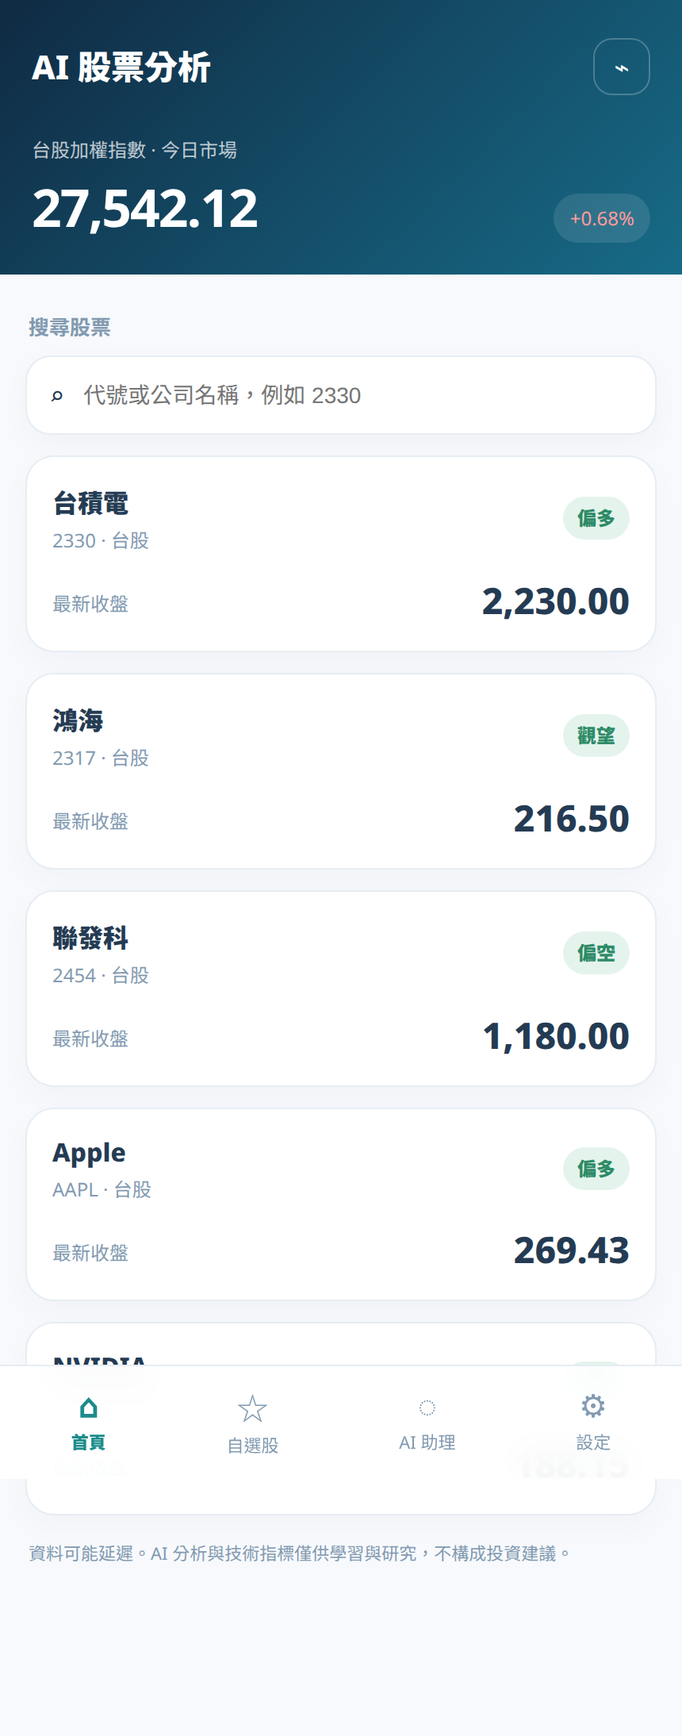
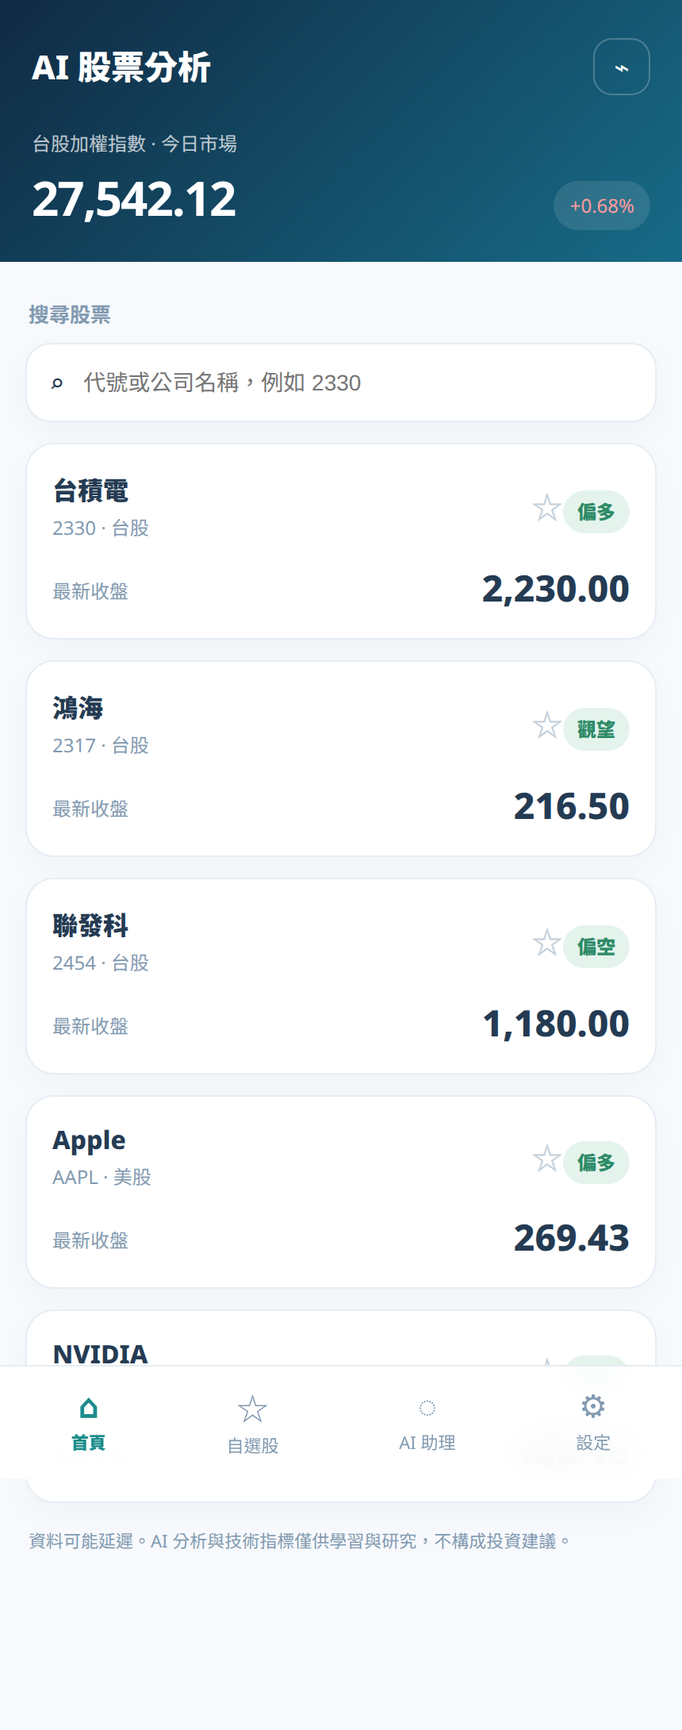
feat: add bollinger kd indicators and watchlist

diff --git a/flutter_app/preview/index.html b/flutter_app/preview/index.html
@@ -5,36 +5,54 @@
   <meta name="viewport" content="width=device-width, initial-scale=1" />
   <title>AI 股票分析｜互動預覽</title>
   <style>
-    :root{--navy:#102a43;--teal:#1c8c8c;--red:#d64545;--green:#2e8b67;--ink:#243b53;--muted:#829ab1;--bg:#f7f9fc;--card:#fff;--line:#e6edf3}
-    *{box-sizing:border-box} body{margin:0;background:#dfe8f0;font-family:Inter,"Noto Sans TC",system-ui,sans-serif;color:var(--ink)}
+    :root{--navy:#102a43;--teal:#1c8c8c;--red:#d64545;--green:#2e8b67;--orange:#f0a34a;--blue:#3e7cb1;--purple:#805ad5;--ink:#243b53;--muted:#829ab1;--bg:#f7f9fc;--card:#fff;--line:#e6edf3}
+    *{box-sizing:border-box}body{margin:0;background:#dfe8f0;font-family:Inter,"Noto Sans TC",system-ui,sans-serif;color:var(--ink)}
     .shell{width:min(430px,100vw);min-height:100vh;margin:auto;background:var(--bg);overflow:hidden;box-shadow:0 0 45px #102a4326}
-    header{padding:24px 20px 20px;color:white;background:linear-gradient(135deg,#102a43,#176b87)}
-    .top{display:flex;justify-content:space-between;align-items:center}.brand{font-weight:800;font-size:21px}.icon{width:36px;height:36px;border:1px solid #ffffff3b;border-radius:12px;display:grid;place-items:center}
-    .eyebrow{font-size:12px;opacity:.72;margin-top:26px}.hero{display:flex;justify-content:space-between;align-items:end;margin-top:5px}.hero strong{font-size:33px;letter-spacing:-1px}.up{color:#ff9d9d}.down{color:#74d9ae}.trend{font-size:12px;padding:7px 10px;border-radius:20px;background:#ffffff1c}
-    main{padding:18px 16px 88px}.label{font-size:13px;color:var(--muted);font-weight:700;margin:5px 2px 9px}.search{display:flex;align-items:center;gap:10px;background:white;border:1px solid var(--line);border-radius:16px;padding:13px 14px;box-shadow:0 6px 18px #102a4308}.search input{border:0;outline:0;flex:1;font-size:14px;background:transparent}.card{background:var(--card);border:1px solid var(--line);border-radius:18px;padding:16px;margin-top:13px;box-shadow:0 7px 20px #102a4307}.row{display:flex;align-items:center;justify-content:space-between;gap:12px}.stock-name{font-weight:800}.sub{font-size:12px;color:var(--muted);margin-top:4px}.pill{font-size:12px;padding:5px 9px;border-radius:999px;background:#e4f4ed;color:var(--green);font-weight:800}.price{font-size:23px;font-weight:800}.metrics{display:grid;grid-template-columns:repeat(3,1fr);gap:8px;margin-top:16px}.metric{background:#f7f9fc;border-radius:12px;padding:10px}.metric b{display:block;font-size:16px;margin-top:5px}.metric span{font-size:11px;color:var(--muted)}button{border:0;border-radius:13px;padding:12px 14px;font-weight:800;cursor:pointer}.primary{background:var(--navy);color:white;width:100%;margin-top:15px}.ghost{background:#edf6f6;color:var(--teal)}.hidden{display:none}.back{display:flex;align-items:center;gap:8px;color:white;font-weight:800;cursor:pointer}.chart-card{padding:10px 8px 12px}.chart{width:100%;height:260px;border-radius:12px;background:linear-gradient(#fff,#fbfdff);display:block}.legend{display:flex;gap:11px;flex-wrap:wrap;padding:8px 5px 1px;font-size:11px;color:var(--muted)}.dot{display:inline-block;width:9px;height:9px;border-radius:3px;margin-right:4px}.table-row{display:flex;justify-content:space-between;padding:13px 0;border-bottom:1px solid var(--line);font-size:13px}.table-row:last-child{border-bottom:0}.bottom{position:fixed;bottom:0;width:min(430px,100vw);display:flex;justify-content:space-around;background:#ffffffee;border-top:1px solid var(--line);padding:11px 7px 13px;backdrop-filter:blur(12px)}.nav{font-size:11px;color:var(--muted);text-align:center;cursor:pointer}.nav.active{color:var(--teal);font-weight:800}.nav i{display:block;font-style:normal;font-size:20px;margin-bottom:2px}.notice{font-size:11px;color:var(--muted);line-height:1.5;margin:17px 2px}
+    header{padding:24px 20px 20px;color:#fff;background:linear-gradient(135deg,#102a43,#176b87)}
+    .top,.row{display:flex;justify-content:space-between;align-items:center;gap:12px}.brand{font-weight:800;font-size:21px}.icon{width:36px;height:36px;border:1px solid #ffffff3b;border-radius:12px;display:grid;place-items:center}
+    .eyebrow{font-size:12px;opacity:.72;margin-top:22px}.hero{display:flex;justify-content:space-between;align-items:end;margin-top:5px}.hero strong{font-size:30px;letter-spacing:-1px}.up{color:#ff9d9d}.down{color:#74d9ae}.trend{font-size:12px;padding:7px 10px;border-radius:20px;background:#ffffff1c}
+    main{padding:18px 16px 92px}.label{font-size:13px;color:var(--muted);font-weight:700;margin:5px 2px 9px}.search{display:flex;align-items:center;gap:10px;background:#fff;border:1px solid var(--line);border-radius:16px;padding:13px 14px;box-shadow:0 6px 18px #102a4308}.search input{border:0;outline:0;flex:1;font-size:14px;background:transparent}.card{background:var(--card);border:1px solid var(--line);border-radius:18px;padding:16px;margin-top:13px;box-shadow:0 7px 20px #102a4307}.stock-name{font-weight:800}.sub{font-size:12px;color:var(--muted);margin-top:4px}.pill{font-size:12px;padding:5px 9px;border-radius:999px;background:#e4f4ed;color:var(--green);font-weight:800}.price{font-size:23px;font-weight:800}.metrics{display:grid;grid-template-columns:repeat(3,1fr);gap:8px;margin-top:16px}.metric{background:#f7f9fc;border-radius:12px;padding:10px}.metric b{display:block;font-size:16px;margin-top:5px}.metric span{font-size:11px;color:var(--muted)}button{border:0;border-radius:13px;padding:11px 13px;font-weight:800;cursor:pointer}.primary{background:var(--navy);color:#fff;width:100%;margin-top:15px}.ghost{background:#edf6f6;color:var(--teal)}.small{padding:7px 10px;background:#f3f6f9;color:var(--muted)}.star{font-size:20px;color:#c2ced8;background:transparent;padding:0}.star.active{color:#f0a34a}.hidden{display:none}.back{display:flex;align-items:center;gap:8px;color:#fff;font-weight:800;cursor:pointer}.chart-card{padding:10px 8px 12px}.chart{width:100%;height:260px;border-radius:12px;background:linear-gradient(#fff,#fbfdff);display:block}.legend,.tabs{display:flex;gap:10px;flex-wrap:wrap;padding:8px 5px 1px;font-size:11px;color:var(--muted)}.dot{display:inline-block;width:9px;height:9px;border-radius:3px;margin-right:4px}.tabs button{background:#f1f5f8;color:var(--muted);font-size:12px}.tabs button.selected{background:var(--navy);color:#fff}.table-row{display:flex;justify-content:space-between;padding:13px 0;border-bottom:1px solid var(--line);font-size:13px}.table-row:last-child{border-bottom:0}.empty{text-align:center;color:var(--muted);padding:35px 10px}.bottom{position:fixed;bottom:0;width:min(430px,100vw);display:flex;justify-content:space-around;background:#ffffffee;border-top:1px solid var(--line);padding:11px 7px 13px;backdrop-filter:blur(12px);z-index:2}.nav{font-size:11px;color:var(--muted);text-align:center;cursor:pointer}.nav.active{color:var(--teal);font-weight:800}.nav i{display:block;font-style:normal;font-size:20px;margin-bottom:2px}.notice{font-size:11px;color:var(--muted);line-height:1.5;margin:17px 2px}.signal{font-size:12px;color:var(--teal);background:#eaf7f6;border-radius:10px;padding:9px 11px;margin-top:12px}
   </style>
 </head>
 <body>
-  <div class="shell">
-    <section id="home">
-      <header><div class="top"><div class="brand">AI 股票分析</div><div class="icon">⌁</div></div><div class="eyebrow">台股加權指數 · 今日市場</div><div class="hero"><strong>27,542.12</strong><span class="trend up">+0.68%</span></div></header>
-      <main><div class="label">搜尋股票</div><div class="search">⌕<input id="query" placeholder="代號或公司名稱，例如 2330" oninput="filterStocks()" /></div><div id="stockList"></div><div id="analysis" class="card hidden"></div><p class="notice">資料可能延遲。AI 分析與技術指標僅供學習與研究，不構成投資建議。</p></main>
-    </section>
-    <section id="history" class="hidden">
-      <header><div class="back" onclick="showHome()">‹ <span>返回首頁</span></div><div class="eyebrow">台股 · 技術分析</div><div class="hero"><strong>2330 台積電</strong><span class="trend up">偏多</span></div></header>
-      <main><div class="row"><div class="label">歷史走勢</div><button class="ghost">近 3 個月⌄</button></div><div class="card chart-card"><div class="legend"><span><i class="dot" style="background:#d64545"></i>上漲</span><span><i class="dot" style="background:#2e8b67"></i>下跌</span><span><i class="dot" style="background:#f0a34a"></i>MA5</span><span><i class="dot" style="background:#3e7cb1"></i>MA20</span></div><canvas class="chart" id="chart" width="800" height="520"></canvas></div><div class="label" style="margin-top:18px">最新交易日資料</div><div class="card"><div class="row"><div><div class="sub">2026-11-09</div><div class="price">2,230.00</div></div><span class="pill">+1.34%</span></div><div class="metrics"><div class="metric"><span>開盤</span><b>2,200</b></div><div class="metric"><span>最高</span><b>2,250</b></div><div class="metric"><span>最低</span><b>2,180</b></div></div></div><div class="label" style="margin-top:18px">歷史資料</div><div class="card"><div class="table-row"><span>2026-11-09</span><b class="up">2,230.00</b></div><div class="table-row"><span>2026-11-06</span><b class="up">2,200.00</b></div><div class="table-row"><span>2026-11-05</span><b class="down">2,165.00</b></div><div class="table-row"><span>2026-11-04</span><b class="up">2,190.00</b></div></div><p class="notice">K 線與技術指標由後端歷史資料計算，僅供研究參考。</p></main>
-    </section>
-    <nav class="bottom"><div class="nav active" onclick="showHome()"><i>⌂</i>首頁</div><div class="nav"><i>☆</i>自選股</div><div class="nav"><i>◌</i>AI 助理</div><div class="nav"><i>⚙</i>設定</div></nav>
-  </div>
-  <script>
-    const stocks=[['2330','台積電','偏多','2,230.00'],['2317','鴻海','觀望','216.50'],['2454','聯發科','偏空','1,180.00'],['AAPL','Apple','偏多','269.43'],['NVDA','NVIDIA','偏多','188.15']];
-    function render(list=stocks){document.querySelector('#stockList').innerHTML=list.map(s=>`<div class="card" onclick="selectStock('${s[0]}','${s[1]}','${s[2]}','${s[3]}')"><div class="row"><div><div class="stock-name">${s[1]}</div><div class="sub">${s[0]} · ${s[0].length>4?'美股':'台股'}</div></div><span class="pill">${s[2]}</span></div><div class="row" style="margin-top:13px"><span class="sub">最新收盤</span><span class="price">${s[3]}</span></div></div>`).join('')}
-    function filterStocks(){const q=document.querySelector('#query').value.toLowerCase();render(stocks.filter(s=>s.join('').toLowerCase().includes(q)))}
-    function selectStock(sym,name,trend,price){document.querySelector('#analysis').classList.remove('hidden');document.querySelector('#analysis').innerHTML=`<div class="row"><div><div class="stock-name">${name} ${sym}</div><div class="sub">最新 AI 技術分析摘要</div></div><span class="pill">${trend}</span></div><div class="metrics"><div class="metric"><span>收盤價</span><b>${price}</b></div><div class="metric"><span>MA20</span><b>2,374.75</b></div><div class="metric"><span>RSI14</span><b>34.81</b></div></div><button class="primary" onclick="showHistory()">查看 K 線與歷史資料 →</button>`;document.querySelector('#analysis').scrollIntoView({behavior:'smooth'})}
-    function showHistory(){document.querySelector('#home').classList.add('hidden');document.querySelector('#history').classList.remove('hidden');drawChart()}
-    function showHome(){document.querySelector('#history').classList.add('hidden');document.querySelector('#home').classList.remove('hidden')}
-    function drawChart(){const c=document.querySelector('#chart'),x=c.getContext('2d'),w=c.width,h=c.height;x.clearRect(0,0,w,h);x.strokeStyle='#e6edf3';for(let i=0;i<5;i++){x.beginPath();x.moveTo(30,i*105+25);x.lineTo(w-20,i*105+25);x.stroke()}let vals=[350,330,360,315,300,328,282,290,250,265,235,255,220,230,190,210,175,198,160,180,145,158,120,135,105,125];for(let i=0;i<vals.length;i++){let xx=45+i*(w-80)/(vals.length-1), yy=vals[i];x.strokeStyle=i%3?'#3e7cb1':'#f0a34a';x.lineWidth=4;x.beginPath();x.moveTo(xx,yy+15);x.lineTo(xx,yy-20);x.stroke();x.strokeStyle=i%4?'#d64545':'#2e8b67';x.lineWidth=10;x.beginPath();x.moveTo(xx,yy-8);x.lineTo(xx,yy+7);x.stroke()}x.strokeStyle='#f0a34a';x.lineWidth=3;x.beginPath();x.moveTo(45,310);for(let i=0;i<vals.length;i++){x.lineTo(45+i*(w-80)/(vals.length-1),vals[i]+12)}x.stroke()}
-    render();
-  </script>
+<div class="shell">
+  <section id="home">
+    <header><div class="top"><div class="brand">AI 股票分析</div><div class="icon">⌁</div></div><div class="eyebrow">台股加權指數 · 今日市場</div><div class="hero"><strong>27,542.12</strong><span class="trend up">+0.68%</span></div></header>
+    <main><div class="label">搜尋股票</div><div class="search">⌕<input id="query" placeholder="代號或公司名稱，例如 2330" oninput="filterStocks()" /></div><div id="stockList"></div><div id="analysis" class="card hidden"></div><p class="notice">資料可能延遲。AI 分析與技術指標僅供學習與研究，不構成投資建議。</p></main>
+  </section>
+  <section id="history" class="hidden">
+    <header><div class="back" onclick="showHome()">‹ <span>返回首頁</span></div><div class="eyebrow" id="historyMarket">台股 · 技術分析</div><div class="hero"><strong id="historyTitle">2330 台積電</strong><span class="trend up" id="historyTrend">偏多</span></div></header>
+    <main><div class="row"><div class="label">歷史走勢</div><button class="ghost">近 3 個月⌄</button></div><div class="tabs"><button class="selected" data-indicator="price" onclick="setIndicator('price',this)">K 線</button><button data-indicator="bollinger" onclick="setIndicator('bollinger',this)">Bollinger Bands</button><button data-indicator="kd" onclick="setIndicator('kd',this)">KD 指標</button></div><div class="card chart-card"><div id="legend" class="legend"></div><canvas class="chart" id="chart" width="800" height="520"></canvas></div><div id="indicatorSummary" class="signal">目前顯示 K 線與 MA5、MA20、MA60。</div><div class="label" style="margin-top:18px">最新交易日資料</div><div id="latestCard" class="card"></div><div class="label" style="margin-top:18px">歷史資料</div><div id="historyRows" class="card"></div><p class="notice">技術指標由後端歷史資料計算，僅供研究參考，不構成投資建議。</p></main>
+  </section>
+  <section id="watchlist" class="hidden"><header><div class="top"><div class="brand">我的自選股</div><div class="icon">☆</div></div><div class="eyebrow">儲存在此瀏覽器的追蹤清單</div><div class="hero"><strong id="watchCount">0 檔</strong><span class="trend">localStorage</span></div></header><main><div id="watchRows"></div><p class="notice">自選股只儲存在目前瀏覽器，不會上傳到伺服器。</p></main></section>
+  <nav class="bottom"><div class="nav active" data-page="home" onclick="showHome()"><i>⌂</i>首頁</div><div class="nav" data-page="watchlist" onclick="showWatchlist()"><i>☆</i>自選股</div><div class="nav"><i>◌</i>AI 助理</div><div class="nav"><i>⚙</i>設定</div></nav>
+</div>
+<script>
+const API_BASE='http://127.0.0.1:8000';
+const stocks=[{symbol:'2330',name:'台積電',market:'tw',trend:'偏多',price:'2,230.00'},{symbol:'2317',name:'鴻海',market:'tw',trend:'觀望',price:'216.50'},{symbol:'2454',name:'聯發科',market:'tw',trend:'偏空',price:'1,180.00'},{symbol:'AAPL',name:'Apple',market:'us',trend:'偏多',price:'269.43'},{symbol:'NVDA',name:'NVIDIA',market:'us',trend:'偏多',price:'188.15'}];
+let selectedStock=stocks[0], selectedIndicator='price', chartRows=[];
+const readWatchlist=()=>JSON.parse(localStorage.getItem('stock-watchlist')||'[]');
+const saveWatchlist=(items)=>localStorage.setItem('stock-watchlist',JSON.stringify(items));
+const isWatched=(symbol)=>readWatchlist().includes(symbol);
+function toggleWatch(symbol,event){event.stopPropagation();const list=readWatchlist();const next=list.includes(symbol)?list.filter(x=>x!==symbol):[...list,symbol];saveWatchlist(next);renderStocks();if(!document.querySelector('#watchlist').classList.contains('hidden'))renderWatchlist()}
+function renderStocks(list=stocks){document.querySelector('#stockList').innerHTML=list.map(s=>`<div class="card" onclick="selectStock('${s.symbol}')"><div class="row"><div><div class="stock-name">${s.name}</div><div class="sub">${s.symbol} · ${s.market==='us'?'美股':'台股'}</div></div><div><button class="star ${isWatched(s.symbol)?'active':''}" onclick="toggleWatch('${s.symbol}',event)">${isWatched(s.symbol)?'★':'☆'}</button><span class="pill">${s.trend}</span></div></div><div class="row" style="margin-top:13px"><span class="sub">最新收盤</span><span class="price">${s.price}</span></div></div>`).join('')||'<div class="empty">找不到符合的股票</div>'}
+function filterStocks(){const q=document.querySelector('#query').value.toLowerCase();renderStocks(stocks.filter(s=>`${s.symbol}${s.name}`.toLowerCase().includes(q)))}
+async function fetchJson(path){const response=await fetch(`${API_BASE}${path}`);if(!response.ok)throw new Error('API unavailable');return response.json()}
+function selectStock(symbol){selectedStock=stocks.find(s=>s.symbol===symbol)||stocks[0];const a=document.querySelector('#analysis');a.classList.remove('hidden');a.innerHTML=`<div class="row"><div><div class="stock-name">${selectedStock.name} ${selectedStock.symbol}</div><div class="sub">最新 AI 技術分析摘要</div></div><div><button class="star ${isWatched(symbol)?'active':''}" onclick="toggleWatch('${symbol}',event)">${isWatched(symbol)?'★':'☆'}</button><span class="pill">${selectedStock.trend}</span></div></div><div id="analysisMetrics" class="metrics"><div class="metric"><span>收盤價</span><b>${selectedStock.price}</b></div><div class="metric"><span>MA20</span><b>2,374.75</b></div><div class="metric"><span>RSI14</span><b>34.81</b></div></div><div id="extraIndicators" class="metrics"><div class="metric"><span>BB 上軌</span><b>2,610.20</b></div><div class="metric"><span>K9</span><b>28.40</b></div><div class="metric"><span>D9</span><b>36.20</b></div></div><button class="primary" onclick="showHistory()">查看 K 線與歷史資料 →</button>`;loadLiveAnalysis();a.scrollIntoView({behavior:'smooth'})}
+async function loadLiveAnalysis(){try{const d=await fetchJson(`/api/v1/stocks/${selectedStock.symbol}/analysis?market=${selectedStock.market}&period=1y&interval=1d`);document.querySelector('#analysisMetrics').innerHTML=`<div class="metric"><span>收盤價</span><b>${d.close?.toFixed(2)||'--'}</b></div><div class="metric"><span>MA20</span><b>${d.ma20?.toFixed(2)||'--'}</b></div><div class="metric"><span>RSI14</span><b>${d.rsi14?.toFixed(2)||'--'}</b></div>`;document.querySelector('#extraIndicators').innerHTML=`<div class="metric"><span>BB 上軌</span><b>${d.bb_upper?.toFixed(2)||'--'}</b></div><div class="metric"><span>K9</span><b>${d.k9?.toFixed(2)||'--'}</b></div><div class="metric"><span>D9</span><b>${d.d9?.toFixed(2)||'--'}</b></div>`}catch(e){/* demo fallback remains visible */}}
+async function showHistory(){document.querySelector('#home').classList.add('hidden');document.querySelector('#watchlist').classList.add('hidden');document.querySelector('#history').classList.remove('hidden');document.querySelector('#historyTitle').textContent=`${selectedStock.symbol} ${selectedStock.name}`;document.querySelector('#historyMarket').textContent=`${selectedStock.market==='us'?'美股':'台股'} · 技術分析`;document.querySelector('#historyTrend').textContent=selectedStock.trend;chartRows=demoRows();renderHistory();try{const d=await fetchJson(`/api/v1/stocks/${selectedStock.symbol}/history?market=${selectedStock.market}&period=3mo&interval=1d`);if(d.data?.length){chartRows=d.data;renderHistory()}}catch(e){}}
+function showHome(){hidePages();document.querySelector('#home').classList.remove('hidden');setNav('home')}
+function showWatchlist(){hidePages();document.querySelector('#watchlist').classList.remove('hidden');renderWatchlist();setNav('watchlist')}
+function hidePages(){['home','history','watchlist'].forEach(id=>document.querySelector('#'+id).classList.add('hidden'))}
+function setNav(page){document.querySelectorAll('.nav').forEach(n=>n.classList.toggle('active',n.dataset.page===page))}
+function renderWatchlist(){const list=stocks.filter(s=>readWatchlist().includes(s.symbol));document.querySelector('#watchCount').textContent=`${list.length} 檔`;document.querySelector('#watchRows').innerHTML=list.map(s=>`<div class="card" onclick="selectStock('${s.symbol}');showHistory()"><div class="row"><div><div class="stock-name">${s.name}</div><div class="sub">${s.symbol} · ${s.market==='us'?'美股':'台股'}</div></div><button class="small" onclick="toggleWatch('${s.symbol}',event)">移除</button></div><div class="row" style="margin-top:13px"><span class="pill">${s.trend}</span><span class="price">${s.price}</span></div></div>`).join('')||'<div class="empty">尚未加入自選股<br><button class="ghost" style="margin-top:14px" onclick="showHome()">去搜尋股票</button></div>'}
+function demoRows(){return Array.from({length:32},(_,i)=>{const close=2200+i*2+Math.sin(i/2)*55;return {date:`2026-10-${String((i%28)+1).padStart(2,'0')}`,Open:close-12,High:close+28,Low:close-35,Close:close,Volume:20000000+i*300000,MA5:close-10,MA20:close-30,MA60:close-70,BBUpper:close+85,BBMiddle:close-30,BBLower:close-145,K9:35+Math.sin(i/3)*22,D9:42+Math.sin(i/3)*15,J9:20+Math.sin(i/2)*35}})}
+function setIndicator(kind,button){selectedIndicator=kind;document.querySelectorAll('.tabs button').forEach(b=>b.classList.remove('selected'));button.classList.add('selected');renderHistory()}
+function renderHistory(){const latest=chartRows[chartRows.length-1];document.querySelector('#latestCard').innerHTML=`<div class="row"><div><div class="sub">${latest.date}</div><div class="price">${Number(latest.Close).toFixed(2)}</div></div><span class="pill">${Number(latest.Close)>=Number(latest.Open)?'上漲':'下跌'}</span></div><div class="metrics"><div class="metric"><span>開盤</span><b>${Number(latest.Open).toFixed(2)}</b></div><div class="metric"><span>最高</span><b>${Number(latest.High).toFixed(2)}</b></div><div class="metric"><span>最低</span><b>${Number(latest.Low).toFixed(2)}</b></div><div class="metric"><span>BB 上軌</span><b>${latest.BBUpper?Number(latest.BBUpper).toFixed(2):'--'}</b></div><div class="metric"><span>K9 / D9</span><b>${latest.K9?Number(latest.K9).toFixed(1):'--'} / ${latest.D9?Number(latest.D9).toFixed(1):'--'}</b></div><div class="metric"><span>成交量</span><b>${Number(latest.Volume).toLocaleString()}</b></div></div>`;document.querySelector('#historyRows').innerHTML=chartRows.slice().reverse().slice(0,8).map(r=>`<div class="table-row"><span>${r.date}</span><b class="${r.Close>=r.Open?'up':'down'}">${Number(r.Close).toFixed(2)}</b></div>`).join('');const messages={price:'目前顯示 K 線與 MA5、MA20、MA60。',bollinger:'Bollinger Bands：中線為 MA20，上下軌為 20 日均線 ± 2 倍標準差。',kd:'KD 指標：K、D 以 9 日 RSV 平滑計算，J = 3K − 2D。'};document.querySelector('#indicatorSummary').textContent=messages[selectedIndicator];drawChart()}
+function drawChart(){const c=document.querySelector('#chart'),ctx=c.getContext('2d'),w=c.width,h=c.height;ctx.clearRect(0,0,w,h);const rows=chartRows.slice(-40), highs=rows.map(r=>Number(r.High)), lows=rows.map(r=>Number(r.Low)), max=Math.max(...highs),min=Math.min(...lows),range=Math.max(1,max-min);const px=i=>35+i*(w-70)/(rows.length-1), py=v=>20+(max-v)/range*370;ctx.strokeStyle='#e6edf3';for(let i=0;i<5;i++){ctx.beginPath();ctx.moveTo(30,i*92+25);ctx.lineTo(w-18,i*92+25);ctx.stroke()}document.querySelector('#legend').innerHTML=selectedIndicator==='price'?'<span><i class="dot" style="background:#d64545"></i>上漲</span><span><i class="dot" style="background:#2e8b67"></i>下跌</span><span><i class="dot" style="background:#f0a34a"></i>MA5</span><span><i class="dot" style="background:#3e7cb1"></i>MA20</span><span><i class="dot" style="background:#805ad5"></i>MA60</span>':selectedIndicator==='bollinger'?'<span><i class="dot" style="background:#f0a34a"></i>BB 上軌</span><span><i class="dot" style="background:#3e7cb1"></i>BB 中線</span><span><i class="dot" style="background:#805ad5"></i>BB 下軌</span>':'<span><i class="dot" style="background:#d64545"></i>K9</span><span><i class="dot" style="background:#3e7cb1"></i>D9</span><span><i class="dot" style="background:#805ad5"></i>J9</span>';
+function line(key,color,mapper=py){ctx.strokeStyle=color;ctx.lineWidth=4;ctx.beginPath();rows.forEach((r,i)=>{const v=Number(r[key]);const y=mapper(v);i?ctx.lineTo(px(i),y):ctx.moveTo(px(i),y)});ctx.stroke()}
+if(selectedIndicator==='price'){rows.forEach((r,i)=>{const x=px(i),up=Number(r.Close)>=Number(r.Open);ctx.strokeStyle=up?'#d64545':'#2e8b67';ctx.lineWidth=2;ctx.beginPath();ctx.moveTo(x,py(r.High));ctx.lineTo(x,py(r.Low));ctx.stroke();ctx.lineWidth=10;ctx.beginPath();ctx.moveTo(x,py(Math.max(r.Open,r.Close)));ctx.lineTo(x,py(Math.min(r.Open,r.Close)));ctx.stroke()});line('MA5','#f0a34a');line('MA20','#3e7cb1');line('MA60','#805ad5')}else if(selectedIndicator==='bollinger'){line('BBUpper','#f0a34a');line('BBMiddle','#3e7cb1');line('BBLower','#805ad5');line('Close','#d64545')}else{const kdMin=0,kdMax=100;const ky=v=>35+(kdMax-v)/(kdMax-kdMin)*330;line('K9','#d64545',ky);line('D9','#3e7cb1',ky);line('J9','#805ad5',ky)} }
+renderStocks();
+</script>
 </body>
 </html>

diff --git a/app/stock_service.py b/app/stock_service.py
@@ -79,13 +79,20 @@ def download_history(
 
 
 def add_indicators(frame: pd.DataFrame) -> pd.DataFrame:
-    """計算 MA5/20/60、RSI14 與 MACD(12,26,9)。"""
+    """計算均線、RSI、MACD、Bollinger Bands 與 KD。"""
     result = frame.copy()
     close = result["Close"].astype(float)
 
     result["MA5"] = close.rolling(window=5, min_periods=5).mean()
     result["MA20"] = close.rolling(window=20, min_periods=20).mean()
     result["MA60"] = close.rolling(window=60, min_periods=60).mean()
+
+    # Bollinger Bands：20 日均線，上下軌為均線加減 2 個標準差。
+    bb_middle = close.rolling(window=20, min_periods=20).mean()
+    bb_std = close.rolling(window=20, min_periods=20).std(ddof=0)
+    result["BBMiddle"] = bb_middle
+    result["BBUpper"] = bb_middle + 2 * bb_std
+    result["BBLower"] = bb_middle - 2 * bb_std
 
     # RSI 使用 Wilder 常用的 exponential moving average 版本。
     delta = close.diff()
@@ -105,6 +112,16 @@ def add_indicators(frame: pd.DataFrame) -> pd.DataFrame:
         span=9, adjust=False, min_periods=9
     ).mean()
     result["MACDHistogram"] = result["MACD"] - result["MACDSignal"]
+
+    # KD：9 日 RSV，K/D 使用 alpha=1/3 的平滑方式，J=3K-2D。
+    lowest_9 = result["Low"].rolling(window=9, min_periods=9).min()
+    highest_9 = result["High"].rolling(window=9, min_periods=9).max()
+    denominator = (highest_9 - lowest_9).replace(0, pd.NA)
+    rsv = ((close - lowest_9) / denominator * 100).fillna(50.0)
+    result["RSV9"] = rsv
+    result["K9"] = rsv.ewm(alpha=1 / 3, adjust=False, min_periods=1).mean()
+    result["D9"] = result["K9"].ewm(alpha=1 / 3, adjust=False, min_periods=1).mean()
+    result["J9"] = 3 * result["K9"] - 2 * result["D9"]
 
     return result
 
@@ -160,10 +177,17 @@ def latest_summary(frame: pd.DataFrame, symbol: str, market: Market) -> dict:
         "ma5": number("MA5"),
         "ma20": number("MA20"),
         "ma60": number("MA60"),
+        "bb_upper": number("BBUpper"),
+        "bb_middle": number("BBMiddle"),
+        "bb_lower": number("BBLower"),
         "rsi14": number("RSI14"),
         "macd": number("MACD"),
         "macd_signal": number("MACDSignal"),
         "macd_histogram": number("MACDHistogram"),
+        "rsv9": number("RSV9"),
+        "k9": number("K9"),
+        "d9": number("D9"),
+        "j9": number("J9"),
         "trend": trend,
         "data_source": "Yahoo Finance via yfinance",
     }

diff --git a/app/main.py b/app/main.py
@@ -41,10 +41,17 @@ class HistoryItem(BaseModel):
     MA5: float | None = None
     MA20: float | None = None
     MA60: float | None = None
+    BBUpper: float | None = None
+    BBMiddle: float | None = None
+    BBLower: float | None = None
     RSI14: float | None = None
     MACD: float | None = None
     MACDSignal: float | None = None
     MACDHistogram: float | None = None
+    RSV9: float | None = None
+    K9: float | None = None
+    D9: float | None = None
+    J9: float | None = None
 
 
 class HistoryResponse(BaseModel):
@@ -65,10 +72,17 @@ class AnalysisResponse(BaseModel):
     ma5: float | None
     ma20: float | None
     ma60: float | None
+    bb_upper: float | None
+    bb_middle: float | None
+    bb_lower: float | None
     rsi14: float | None
     macd: float | None
     macd_signal: float | None
     macd_histogram: float | None
+    rsv9: float | None
+    k9: float | None
+    d9: float | None
+    j9: float | None
     trend: str
     data_source: str
 

diff --git a/README.md b/README.md
@@ -4,8 +4,10 @@
 
 - OHLCV：開盤、最高、最低、收盤、成交量
 - MA5、MA20、MA60
+- Bollinger Bands（20 日均線、上下 2 倍標準差）
 - RSI14
 - MACD、MACD Signal、MACD Histogram
+- KD（RSV9、K9、D9、J9）
 - 基於技術指標的簡單趨勢摘要：`bullish`、`bearish`、`neutral`
 
 > 本範例是學習與專題原型，不是投資建議，也不保證資料即時或完整。Yahoo Finance / yfinance 的資料使用須遵守其服務條款；正式產品應評估合法授權的市場資料來源。
@@ -123,3 +125,13 @@ stock-api/
 4. 將規則式 `trend` 替換成可驗證的 XGBoost / Random Forest 分類模型。
 5. 將 CORS 的 `allow_origins=["*"]` 改成正式前端網域。
 6. 增加速率限制、日誌、身份驗證與資料來源監控。
+
+## 8. 網頁版互動預覽功能
+
+`flutter_app/preview/index.html` 提供可直接在瀏覽器操作的版本，目前包含：
+
+- Bollinger Bands 指標切換
+- KD 指標切換
+- 自選股新增與移除
+- 使用瀏覽器 `localStorage` 保存自選股
+- 若 FastAPI 在 `http://127.0.0.1:8000` 執行，預覽會優先讀取實際 API 資料；連線失敗時保留示範資料
